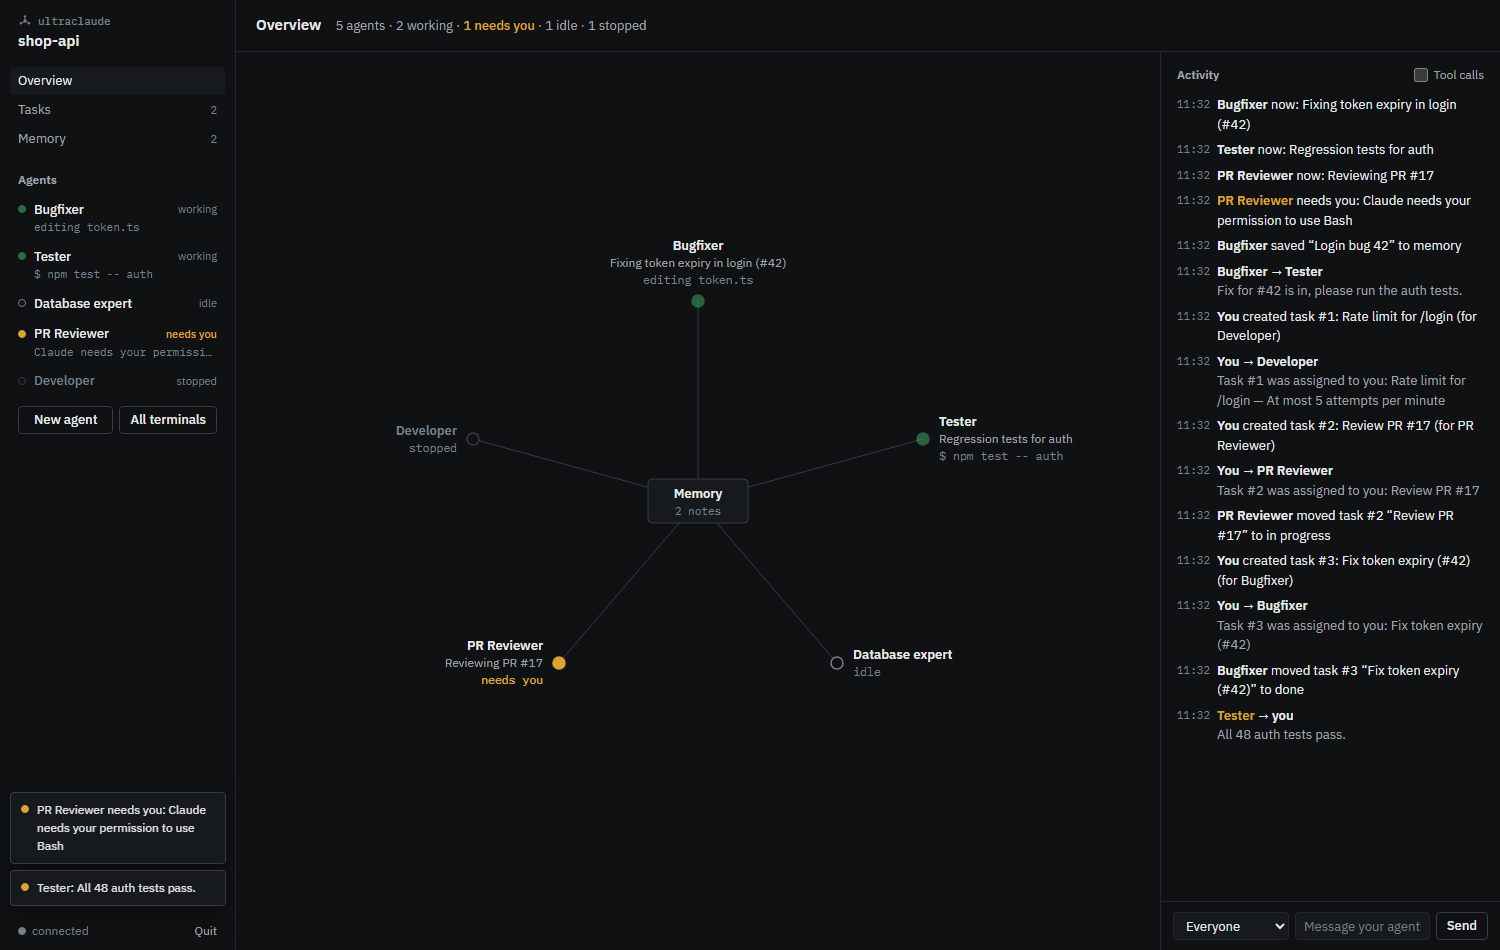
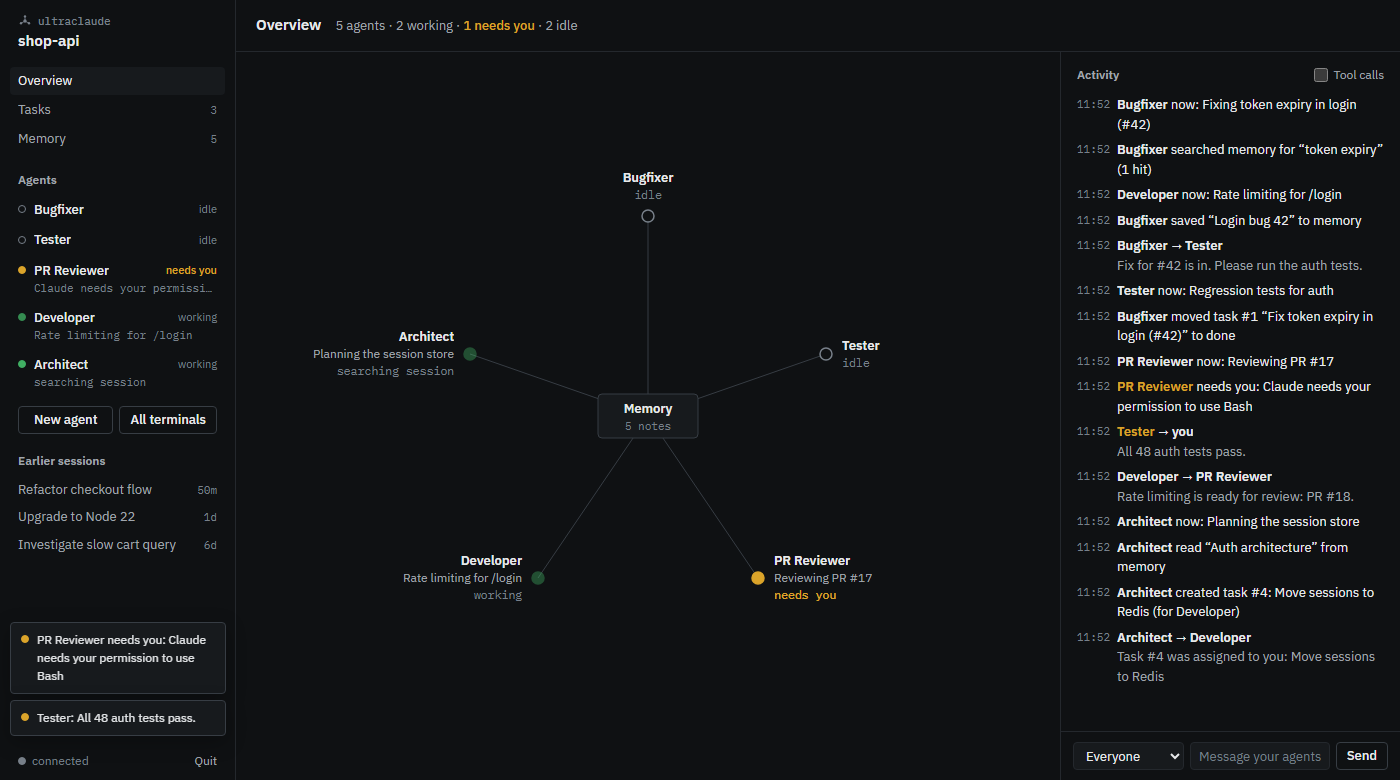
Rewrite the README with an animated hero and a demo recording
- docs/hero.svg: animated picture of the team around its memory
- docs/terminal.svg: the two commands of the quick start, typed out
- docs/demo.gif and screenshots: the real interface, recorded with
  scripted demo agents
- One-line install from GitHub, a section on earlier sessions and a
  diagram of how the parts fit together
- Keep the overview graph from getting much taller than wide

diff --git a/public/app.js b/public/app.js
@@ -158,7 +158,7 @@ function buildGraph(w, ht) {
   const n = S.agents.length;
   hub = { x: Math.round(w / 2), y: Math.round(ht / 2) };
   const rx = Math.max(70, Math.min(w / 2 - (compact ? 120 : 225), 330));
-  const ry = Math.max(70, Math.min(ht / 2 - 90, 200));
+  const ry = Math.max(70, Math.min(ht / 2 - 90, 200, rx * 1.2)); // never much taller than wide
   pos.clear();
   gnodes.clear();
   const links = [];

diff --git a/README.md b/README.md
@@ -1,43 +1,111 @@
-# UltraClaude
+<p align="center">
+  <img src="docs/hero.svg" alt="UltraClaude: several Claude Code agents around one shared memory, exchanging messages" width="100%">
+</p>
 
-Run a team of Claude Code agents in one window. Each agent has a role (bugfixer, PR reviewer, tester, …), all of them share one memory in an Obsidian vault, they see what the others are doing and they message each other. You can have one agent review a pull request while another solves a ticket, and both work from the same knowledge.
+<p align="center">
+  <b>Run a whole team of Claude Code agents side by side.</b><br>
+  Every agent has a role. All of them share one memory in Obsidian.<br>
+  They see what the others are doing, message each other and hand work over.
+</p>
 
-![Overview with five agents around the shared memory](docs/overview.png)
+<p align="center">
+  <a href="#quick-start">Quick start</a> ·
+  <a href="#what-you-get">What you get</a> ·
+  <a href="#shared-memory">Shared memory</a> ·
+  <a href="#earlier-sessions">Earlier sessions</a> ·
+  <a href="#how-it-works">How it works</a>
+</p>
 
-## Install
+<p align="center">
+  <img src="docs/demo.gif" alt="A minute of work: the Bugfixer fixes a bug and saves the cause to memory, tells the Tester, the PR Reviewer asks for permission" width="100%">
+  <br>
+  <sub>The real interface. Recorded with scripted demo agents, so no tokens were harmed.</sub>
+</p>
 
-You need [Node.js](https://nodejs.org) 20 or newer and [Claude Code](https://claude.com/claude-code) (the `claude` command works in your terminal and you are signed in). Obsidian is optional: the vault is a normal folder of Markdown files.
+## Why
+
+One Claude Code window does one thing at a time. But a pull request is waiting for review while a bug needs fixing and somebody should really write that ticket.
+
+UltraClaude opens as many Claude Code sessions as you want for the same project and turns them into a team:
+
+- **Roles.** Bugfixer, Developer, PR Reviewer, Tester, Ticket Writer, Architect, Docs Writer, Coordinator, or one you describe yourself.
+- **One memory.** What one agent learns, every agent knows. It lives in an Obsidian vault you can read and edit.
+- **They talk.** Agents message each other, hand work over and tell you when they are done or stuck.
+- **You see everything.** One window shows who is working, who is idle and who is waiting for you.
+
+## Quick start
+
+<p align="center">
+  <img src="docs/terminal.svg" alt="Terminal: cd my-project, then ultraclaude" width="760">
+</p>
+
+You need [Node.js](https://nodejs.org) 20 or newer and [Claude Code](https://claude.com/claude-code): the `claude` command works in your terminal and you are signed in. Obsidian is optional, because the vault is a normal folder of Markdown files.
 
 ```bash
-git clone <repository-url> ultraclaude
-cd ultraclaude
-npm install
-npm link        # makes the "ultraclaude" command available everywhere
+npm install -g github:ZH-NICO/ultraclaude
 ```
 
-## Use
+Then, in any project folder:
 
 ```bash
 cd my-project
 ultraclaude
 ```
 
-A window opens for that folder. Pick a role to start your first agent.
+A window opens for that folder. Pick a role and your first agent starts.
 
-The first time Claude Code runs in a folder it asks in the agent's terminal whether you trust the folder. Select "Yes" there.
+The first time Claude Code runs in a folder, it asks in the agent's terminal whether you trust the folder. Select "Yes" there.
 
-| View | What it shows |
-| --- | --- |
-| **Overview** | Every agent around the shared memory, with its state and what it is doing right now. Messages and memory access move through the graph as they happen. Next to it: the activity feed and a box to message your agents. |
-| **Agents** (sidebar) | The real Claude Code terminals, one at a time or all side by side. The sidebar always shows who is working, idle or waiting for you. |
-| **Tasks** | A board with Open, In progress and Done. You and the agents add tasks; whoever gets one assigned is told. |
-| **Memory** | All notes in the vault, to filter and read, with a jump into Obsidian. |
+<details>
+<summary>Install from a clone instead</summary>
 
-Colour only ever means state: green is working, amber needs you.
+```bash
+git clone https://github.com/ZH-NICO/ultraclaude.git
+cd ultraclaude
+npm install
+npm link
+```
+
+</details>
+
+## What you get
+
+<table>
+  <tr>
+    <td width="50%"><img src="docs/overview.png" alt="Overview: agents around the shared memory, activity feed on the right"></td>
+    <td width="50%"><img src="docs/terminals.png" alt="All terminals side by side"></td>
+  </tr>
+  <tr>
+    <td><b>Overview.</b> Every agent around the shared memory, with its state and what it is doing right now. Messages and memory access move through the graph as they happen. Next to it, the activity feed and a box to message your agents.</td>
+    <td><b>Terminals.</b> The real Claude Code terminals, one at a time or all side by side. The sidebar always shows who is working, idle or waiting for you.</td>
+  </tr>
+  <tr>
+    <td><img src="docs/tasks.png" alt="Task board with Open, In progress and Done"></td>
+    <td><img src="docs/memory.png" alt="Memory view with a note open"></td>
+  </tr>
+  <tr>
+    <td><b>Tasks.</b> A board with Open, In progress and Done. You and the agents add tasks. Whoever gets one assigned is told.</td>
+    <td><b>Memory.</b> Every note in the vault, to filter and read, with a jump into Obsidian.</td>
+  </tr>
+</table>
+
+Colour only ever means state: green is working, amber needs you. The window follows your system's light or dark theme.
 
 ## Roles
 
-Bugfixer, Developer, PR Reviewer, Tester, Ticket Writer, Architect, Docs Writer, Coordinator, or a custom role you describe yourself. "New agent" also lets you set a name, extra instructions, a first task, the model, the permission mode and a separate git worktree.
+| Role | What it does |
+| --- | --- |
+| Bugfixer | Finds root causes and fixes bugs |
+| Developer | Implements tickets and features |
+| PR Reviewer | Reviews pull requests and diffs |
+| Tester | Writes and runs tests |
+| Ticket Writer | Turns ideas and bugs into clear tickets |
+| Architect | Plans the approach and records decisions |
+| Docs Writer | Keeps README, guides and changelogs current |
+| Coordinator | Splits up the work and keeps track of it |
+| Custom role | You describe what the agent should do |
+
+"New agent" also lets you set a name, extra instructions, a first task, the model, the permission mode and a separate git worktree.
 
 ## Shared memory
 
@@ -48,6 +116,7 @@ UltraClaudeVault/
   Global/                      knowledge for all your projects
   Projects/<project>/
     Memory/                    what the agents learned: decisions, architecture, gotchas
+    Claude Code/               what Claude Code had already saved for this folder
     Agents/                    one note per agent with its role and current status
     Tasks/<project> Board.md   the board as a checklist
     Log/2026-01-31.md          journal: who did what, and when
@@ -55,12 +124,29 @@ UltraClaudeVault/
 
 To see it in Obsidian, choose "Open folder as vault" and pick the vault folder. Notes you write yourself in `Memory/` or `Global/` are found by the agents too.
 
+## Earlier sessions
+
+Already used Claude Code in a folder? UltraClaude picks that up the moment you open it there.
+
+- **Sessions.** Every earlier Claude Code session of the folder is listed in the sidebar. Click one and it continues as an agent: the same conversation, now with the team tools.
+- **Memory.** The notes Claude Code saved for the folder are mirrored into the vault under `Claude Code/`, next to a list of the earlier sessions. Every agent can search them and they show up in Obsidian.
+
 ## How it works
 
-- `ultraclaude` starts a small local server for the folder you are in (it listens on `127.0.0.1` only and requires an access token) and opens the window. Closing the window leaves the agents running. The server exits once no window is open and no agent is running, or when you choose Quit.
+```mermaid
+flowchart LR
+  you([You]) --- win[UltraClaude window]
+  win --- srv[Local server<br>127.0.0.1 only]
+  srv --- a1[Bugfixer<br>claude]
+  srv --- a2[Tester<br>claude]
+  srv --- a3[PR Reviewer<br>claude]
+  srv --- vault[(Obsidian vault<br>shared memory)]
+```
+
+- `ultraclaude` starts a small local server for the folder you are in and opens the window. The server listens on `127.0.0.1` only and requires an access token. Closing the window leaves the agents running. The server exits once no window is open and no agent is running, or when you choose Quit.
 - Each agent is a regular `claude` process in a pseudo terminal, started with its role prompt.
 - A built-in MCP server gives every agent the team tools: `list_agents`, `send_message`, `read_messages`, `set_status`, `memory_search`, `memory_read`, `memory_write`, `memory_list`, `task_list`, `task_create`, `task_update`.
-- Claude Code hooks report to the dashboard what an agent is doing, and they deliver messages: to a busy agent after its next tool call, to an idle agent as new input.
+- Claude Code hooks report to the window what an agent is doing, and they deliver messages: to a busy agent after its next tool call, to an idle agent as new input.
 - When an agent starts it gets a briefing: who is on the team, the open tasks and the notes already in memory.
 - Only the server writes to the vault, so agents working in parallel do not overwrite each other.
 - A project's state (agents, tasks, messages) lives in `<project>/.ultraclaude/`, which git ignores. A stopped agent continues its session the next time you start it.
@@ -80,11 +166,12 @@ ultraclaude --no-open     start the server without a window
 - All agents work in the same folder. For agents that change code at the same time, use the "Own git worktree" option.
 - Every agent uses your Claude quota. Many agents in parallel reach the limit sooner.
 - The window is a Chromium app window when Edge or Chrome is installed, otherwise a tab in your default browser.
+- UltraClaude is an independent project. It starts the Claude Code you have installed and is not made or endorsed by Anthropic.
 
 ## Development
 
 ```bash
-npm test    # vault, messages, tasks, hooks, MCP and the HTTP API, without real Claude processes
+npm test    # vault, messages, tasks, hooks, MCP, sessions and the HTTP API, without real Claude processes
 ```
 
 ```
@@ -93,6 +180,7 @@ src/server.js        HTTP, WebSocket, MCP endpoint and hook endpoint
 src/project.js       agents, messages, tasks, hook logic
 src/mcp.js           the team tools
 src/vault.js         the Obsidian vault
+src/history.js       earlier Claude Code sessions and memory of a folder
 src/roles.js         roles and the agent prompt
 src/hook.js          hook script that Claude Code calls
 public/              the interface (no build step)
@@ -100,4 +188,4 @@ public/              the interface (no build step)
 
 ## License
 
-MIT
+[MIT](LICENSE)
